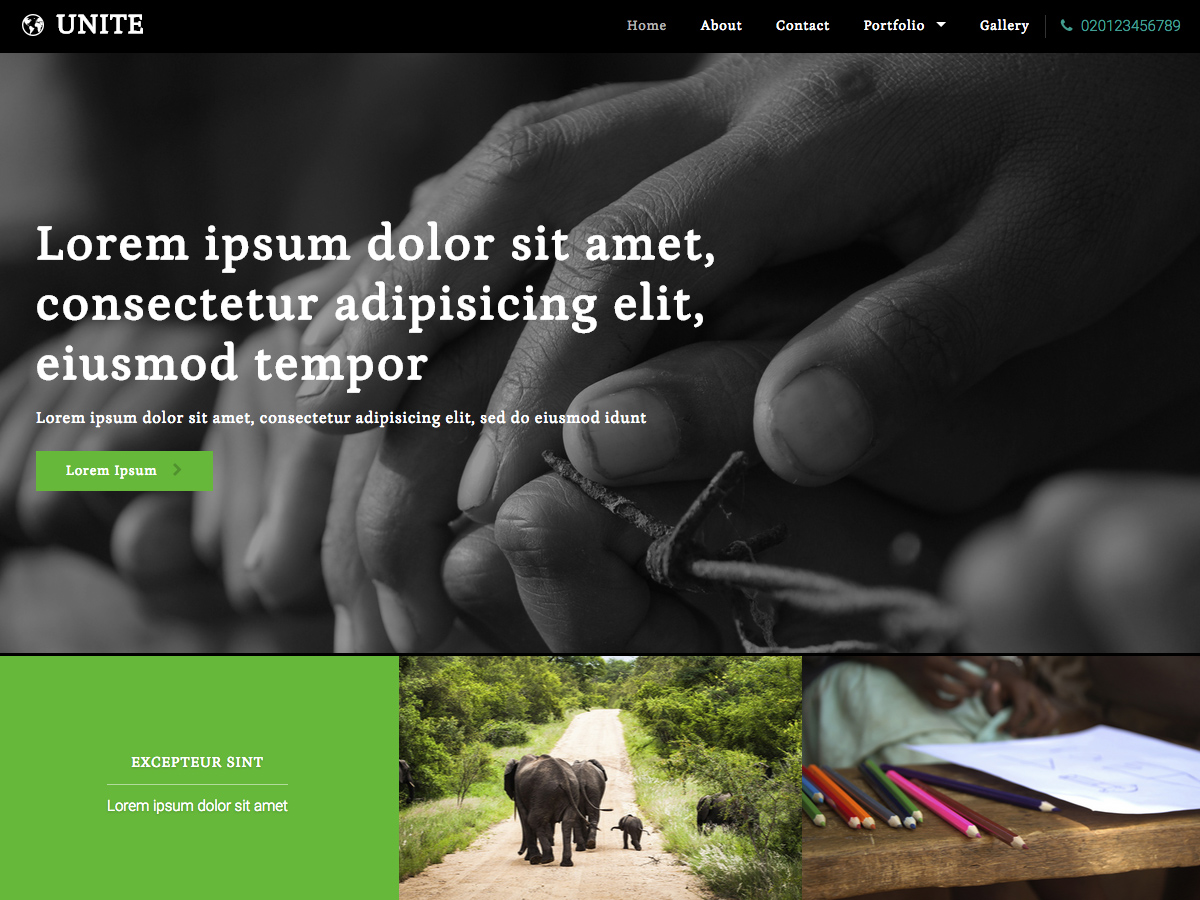
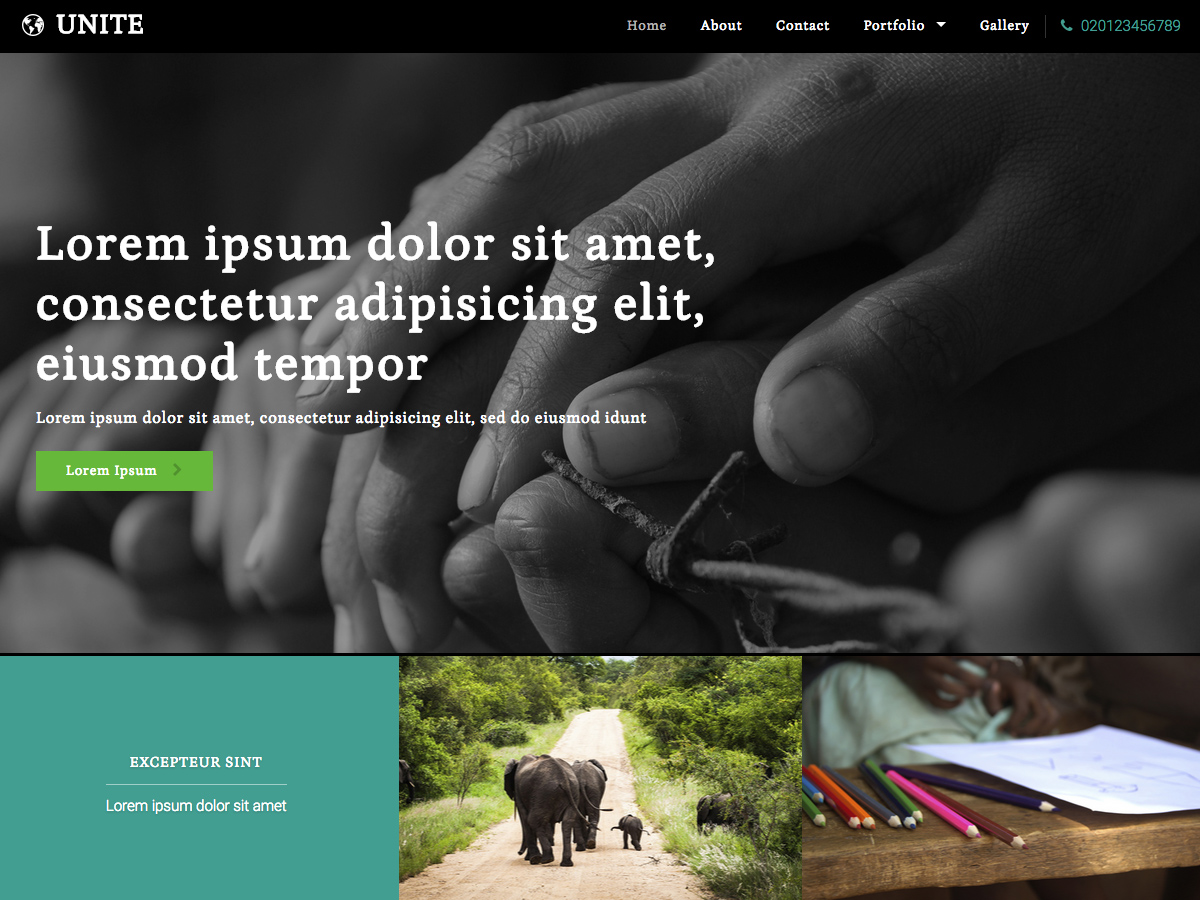
image gallery hover colour changed

Changed region(s): [[0.0, 0.7156, 0.3392, 1.0]]

diff --git a/less/widgets.less b/less/widgets.less
@@ -397,7 +397,7 @@
                 text-decoration: none;
             }
             figcaption {
-                background-color: fade(@contrast-color, 100%);
+                background-color: @color-swatch3;
                 display: flex;
                 height: 100%;
                 opacity: 1;
